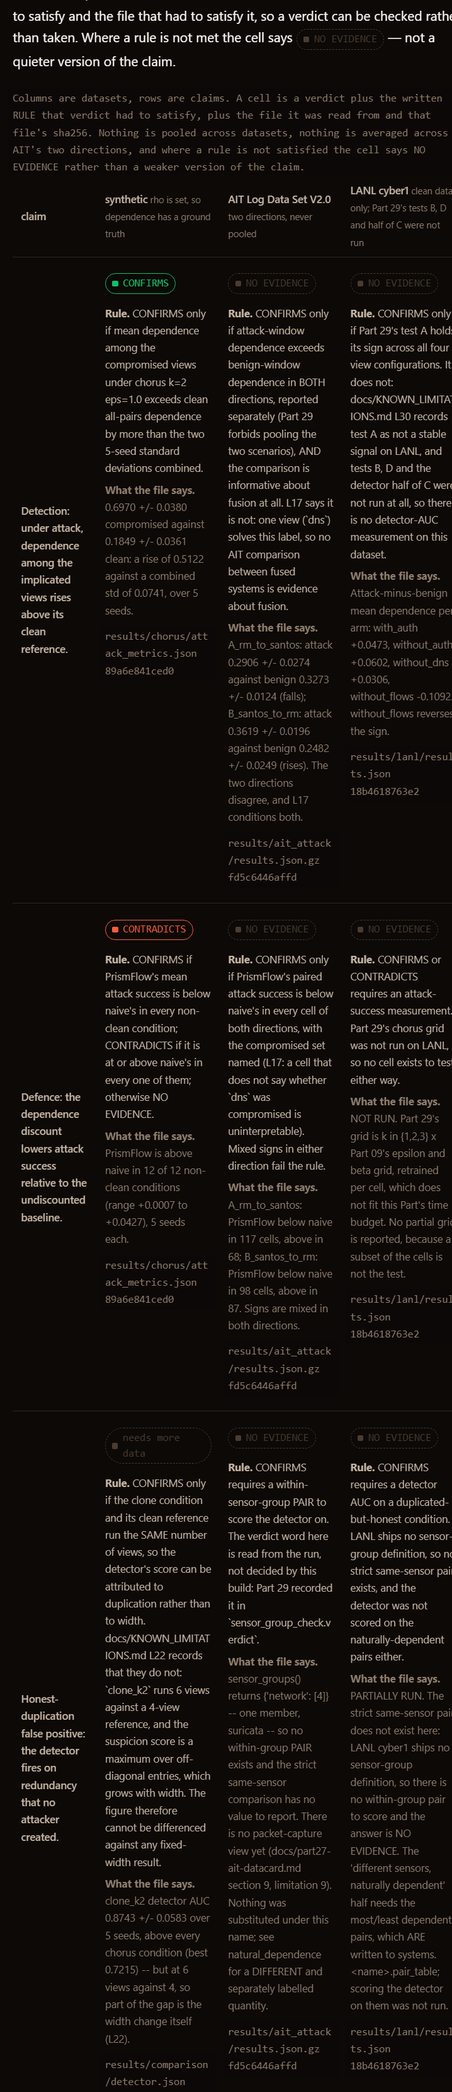
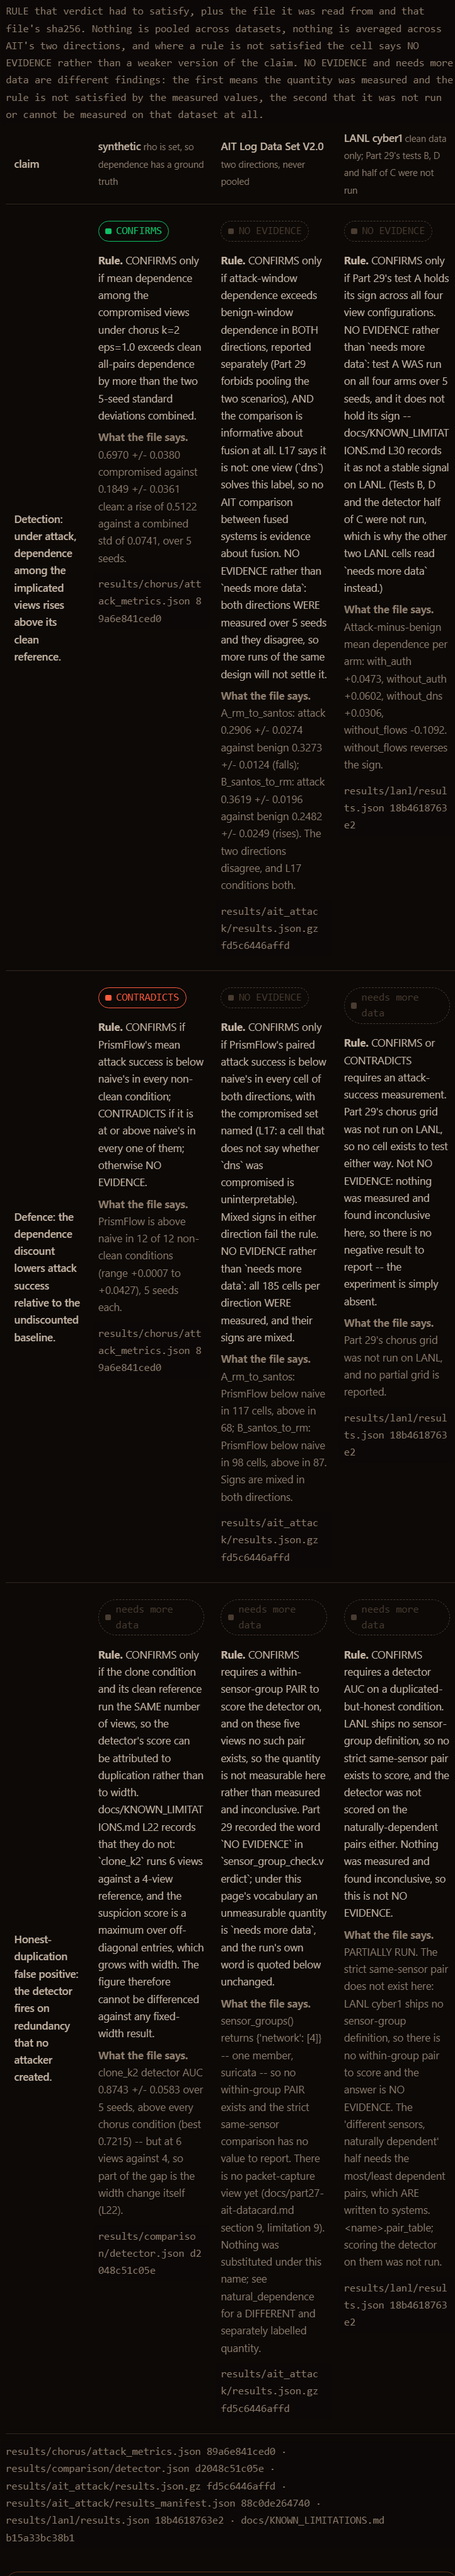
Part 31: fix the screenshot clip and stack the claim table on a phone
The right-edge cut-off was a real capture bug, not a framing choice: `shot`
measured the element's rect at a 900px viewport, then resized the viewport
to the element's height, which re-flowed the page and left the clip
describing the old layout. The LANL panel came out shifted by hundreds of
pixels with its last column gone. The rect is now re-measured after the
resize, and the clip carries 2px of padding so a table whose right edge sits
on its container's does not lose its final glyph.

Measured overflow, at 1352px and at a true 375px: #real is 0px and 7px, the
same as the best existing section, and the claims table's apparent 7px is
its visually-hidden caption, not visible content. What does scroll is the
11-column dependence heatmaps and the numeric attack grids, inside
.table-wrap, which is this site's existing idiom for a matrix and is
keyboard-reachable through main.js. Left as is.

The claim table was the one case where scrolling lost the point: two of
three datasets sat behind a gesture at 375px. It now stacks into one block
per claim, each cell naming its own dataset from data-dataset.

diff --git a/web/assets/css/app.css b/web/assets/css/app.css
@@ -1095,7 +1095,7 @@ pre::before,
 .claims td { vertical-align: top; min-width: 10rem; }
 .claims th[scope="row"] { min-width: 7rem; }
 .claims__rule, .claims__detail { font-size: var(--step--1); color: var(--text-secondary); max-width: none; overflow-wrap: anywhere; margin: var(--sp-1) 0 0; }
-.claims .src { overflow-wrap: anywhere; }
+.claims .src, .claims .src code, .claims .src .mono { overflow-wrap: anywhere; word-break: break-all; }
 .claims__detail { color: var(--text-muted); }
 
 /* A phone has no room for three claim columns side by side, so each cell
@@ -1103,5 +1103,19 @@ pre::before,
 @media (max-width: 40rem) {
   .kv { grid-template-columns: 1fr; gap: 0 0; }
   .kv dt { margin-top: var(--sp-2); }
-  .claims td { min-width: 0; }
+  /* Three dataset columns cannot share 250px, and a side-scroll would hide
+   * two thirds of the comparison behind a gesture. The table becomes one
+   * block per claim instead, each cell carrying its own dataset name from
+   * data-dataset -- the header row is gone, so the cell has to say it. */
+  .claims, .claims thead, .claims tbody, .claims tr, .claims th, .claims td { display: block; }
+  .claims thead { display: none; }
+  .claims td { min-width: 0; border-bottom: 0; padding-left: 0; padding-right: 0; }
+  .claims tr { border-bottom: 1px solid var(--hairline); padding-bottom: var(--sp-3); margin-bottom: var(--sp-3); }
+  .claims th[scope="row"] { min-width: 0; padding-left: 0; padding-right: 0; border-bottom: 0; }
+  .claims td[data-dataset]::before {
+    content: attr(data-dataset);
+    display: block; margin-top: var(--sp-2);
+    font-family: var(--font-mono); font-size: var(--step--1);
+    color: var(--text-secondary);
+  }
 }

diff --git a/web/assets/js/real_data.js b/web/assets/js/real_data.js
@@ -312,8 +312,9 @@
       t.push('<tr><th scope="row">' + esc(row.claim) + "</th>");
       data.columns.forEach(function (col) {
         var c = row.cells[col.id];
-        if (!c) { t.push("<td>" + NOT_MEASURED + "</td>"); return; }
-        t.push("<td>" +
+        var head = ' data-dataset="' + esc(col.label) + '"';
+        if (!c) { t.push("<td" + head + ">" + NOT_MEASURED + "</td>"); return; }
+        t.push("<td" + head + ">" +
           '<p><span class="' + verdictClass(c.verdict) + '">' +
           esc(c.verdict) + "</span></p>" +
           '<p class="claims__rule"><strong>Rule.</strong> ' + esc(c.rule) + "</p>" +

diff --git a/web/verify_page.py b/web/verify_page.py
@@ -563,9 +563,10 @@ def main() -> int:
                 box = b.js(
                     "(() => { const e = document.querySelector(" +
                     json.dumps(selector) + "); if (!e) return null;"
-                    " const r = e.getBoundingClientRect();"
-                    " return JSON.stringify({x: r.left + scrollX, y: r.top + scrollY,"
-                    " w: Math.ceil(r.width), h: Math.ceil(r.height)}); })()")
+                    " const r = e.getBoundingClientRect(), pad = 2;"
+                    " return JSON.stringify({x: Math.max(0, r.left + scrollX - pad),"
+                    " y: r.top + scrollY, w: Math.ceil(r.width) + pad * 2,"
+                    " h: Math.ceil(r.height)}); })()")
                 if not box:
                     raise SystemExit("selector not found: %s" % selector)
                 rect = json.loads(box)
@@ -573,6 +574,17 @@ def main() -> int:
                     "width": width, "height": min(int(rect["h"]) + 40, 16000),
                     "deviceScaleFactor": 1, "mobile": width < 700})
                 time.sleep(0.6)
+                # The resize re-flowed the page: the rect above describes the
+                # OLD layout. Measuring again is the only way the clip lands
+                # on the element the caller asked for.
+                box = b.js(
+                    "(() => { const e = document.querySelector(" +
+                    json.dumps(selector) + "); if (!e) return null;"
+                    " const r = e.getBoundingClientRect(), pad = 2;"
+                    " return JSON.stringify({x: Math.max(0, r.left + scrollX - pad),"
+                    " y: r.top + scrollY, w: Math.ceil(r.width) + pad * 2,"
+                    " h: Math.ceil(r.height)}); })()")
+                rect = json.loads(box)
                 data = b.ws.call("Page.captureScreenshot", {
                     "format": "png", "captureBeyondViewport": True,
                     "clip": {"x": rect["x"], "y": rect["y"], "width": rect["w"],
@@ -615,9 +627,10 @@ def main() -> int:
                 box = b.js(
                     "(() => { const e = document.querySelector(" +
                     json.dumps(selector) + "); if (!e) return null;"
-                    " const r = e.getBoundingClientRect();"
-                    " return JSON.stringify({x: r.left + scrollX, y: r.top + scrollY,"
-                    " w: Math.ceil(r.width), h: Math.ceil(r.height)}); })()")
+                    " const r = e.getBoundingClientRect(), pad = 2;"
+                    " return JSON.stringify({x: Math.max(0, r.left + scrollX - pad),"
+                    " y: r.top + scrollY, w: Math.ceil(r.width) + pad * 2,"
+                    " h: Math.ceil(r.height)}); })()")
                 if not box:
                     raise SystemExit("selector not found: %s" % selector)
                 rect = json.loads(box)
